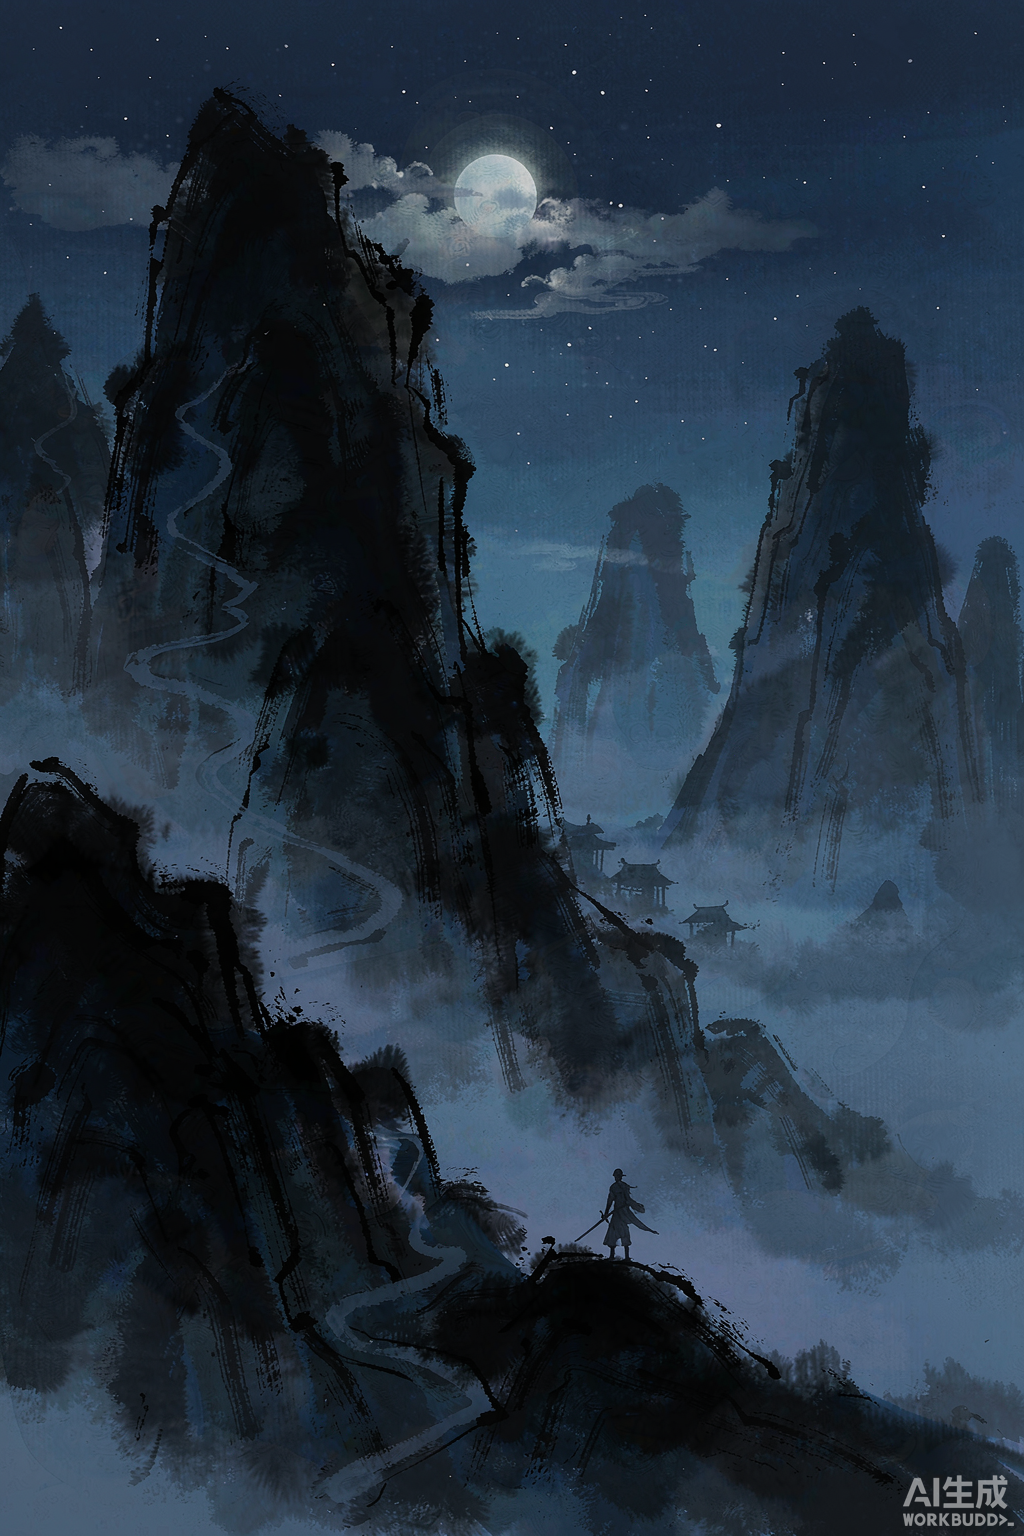
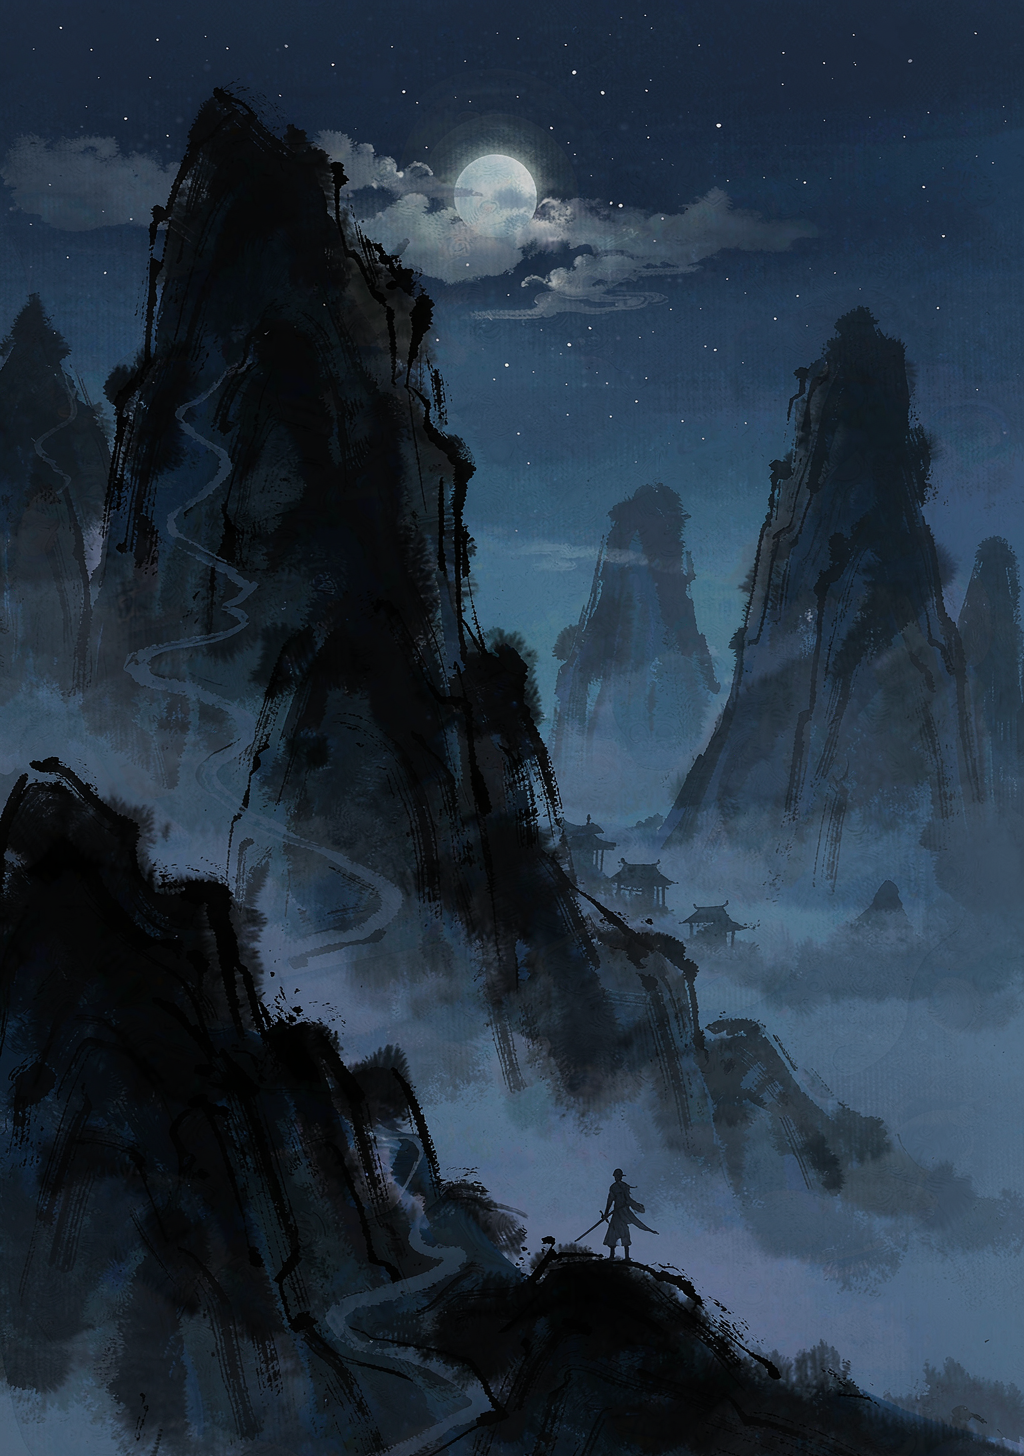
fix: 壁纸去水印+分类调整（几何图移入极简、新增3张动漫壁纸、修复入库脚本编号覆盖bug）

diff --git a/scripts/add-wallpaper.js b/scripts/add-wallpaper.js
@@ -40,9 +40,20 @@ if (!fs.existsSync(image)) {
 fs.mkdirSync(OUT_DIR, { recursive: true });
 
 const list = fs.existsSync(DATA_FILE) ? JSON.parse(fs.readFileSync(DATA_FILE, "utf-8")) : [];
-const id = `${category}-${String(list.filter((w) => w.category === category).length + 1).padStart(3, "0")}`;
+// 用该分类下最大编号 +1（而非数量 +1），避免移动/删除后编号冲突覆盖旧文件
+const maxNum = list
+  .filter((w) => w.category === category)
+  .reduce((m, w) => {
+    const n = parseInt(w.id.split("-")[1] || "0", 10);
+    return isNaN(n) ? m : Math.max(m, n);
+  }, 0);
+const id = `${category}-${String(maxNum + 1).padStart(3, "0")}`;
 const ext = path.extname(image).toLowerCase();
 const dest = path.join(OUT_DIR, `${id}${ext}`);
+if (fs.existsSync(dest)) {
+  console.error(`❌ 目标文件已存在，拒绝覆盖: ${dest}`);
+  process.exit(1);
+}
 fs.copyFileSync(image, dest);
 
 list.push({

diff --git a/scripts/crop_watermark.py b/scripts/crop_watermark.py
@@ -1,0 +1,39 @@
+#!/usr/bin/env python3
+"""批量裁剪图片底部 N 像素（用于去除右下角 AI 水印）。"""
+import os
+import sys
+from pathlib import Path
+from PIL import Image
+
+BOTTOM_CROP = int(os.environ.get("WALLPAPER_CROP_BOTTOM", "80"))
+
+
+def crop_bottom(file_path: str, bottom_px: int = BOTTOM_CROP):
+    p = Path(file_path)
+    if not p.exists():
+        print(f"❌ 文件不存在: {file_path}", file=sys.stderr)
+        return None
+    with Image.open(p) as im:
+        w, h = im.size
+        if h <= bottom_px:
+            print(f"⚠ 图片高度不足，跳过: {file_path}", file=sys.stderr)
+            return None
+        new_h = h - bottom_px
+        cropped = im.crop((0, 0, w, new_h))
+        # 覆盖保存，保留原格式；PNG 默认用最高质量
+        if im.format == "PNG":
+            cropped.save(p, format="PNG", optimize=True)
+        else:
+            cropped.save(p)
+    print(f"✂  {p.name}: {w}x{h} → {w}x{new_h} (底部裁剪 {bottom_px}px)")
+    return {"file": str(p), "old": {"width": w, "height": h}, "new": {"width": w, "height": new_h}}
+
+
+if __name__ == "__main__":
+    if len(sys.argv) < 2:
+        print("用法: python scripts/crop_watermark.py <图片路径> [底部裁剪像素数]", file=sys.stderr)
+        sys.exit(1)
+
+    path = sys.argv[1]
+    bottom = int(sys.argv[2]) if len(sys.argv) > 2 else BOTTOM_CROP
+    crop_bottom(path, bottom)
